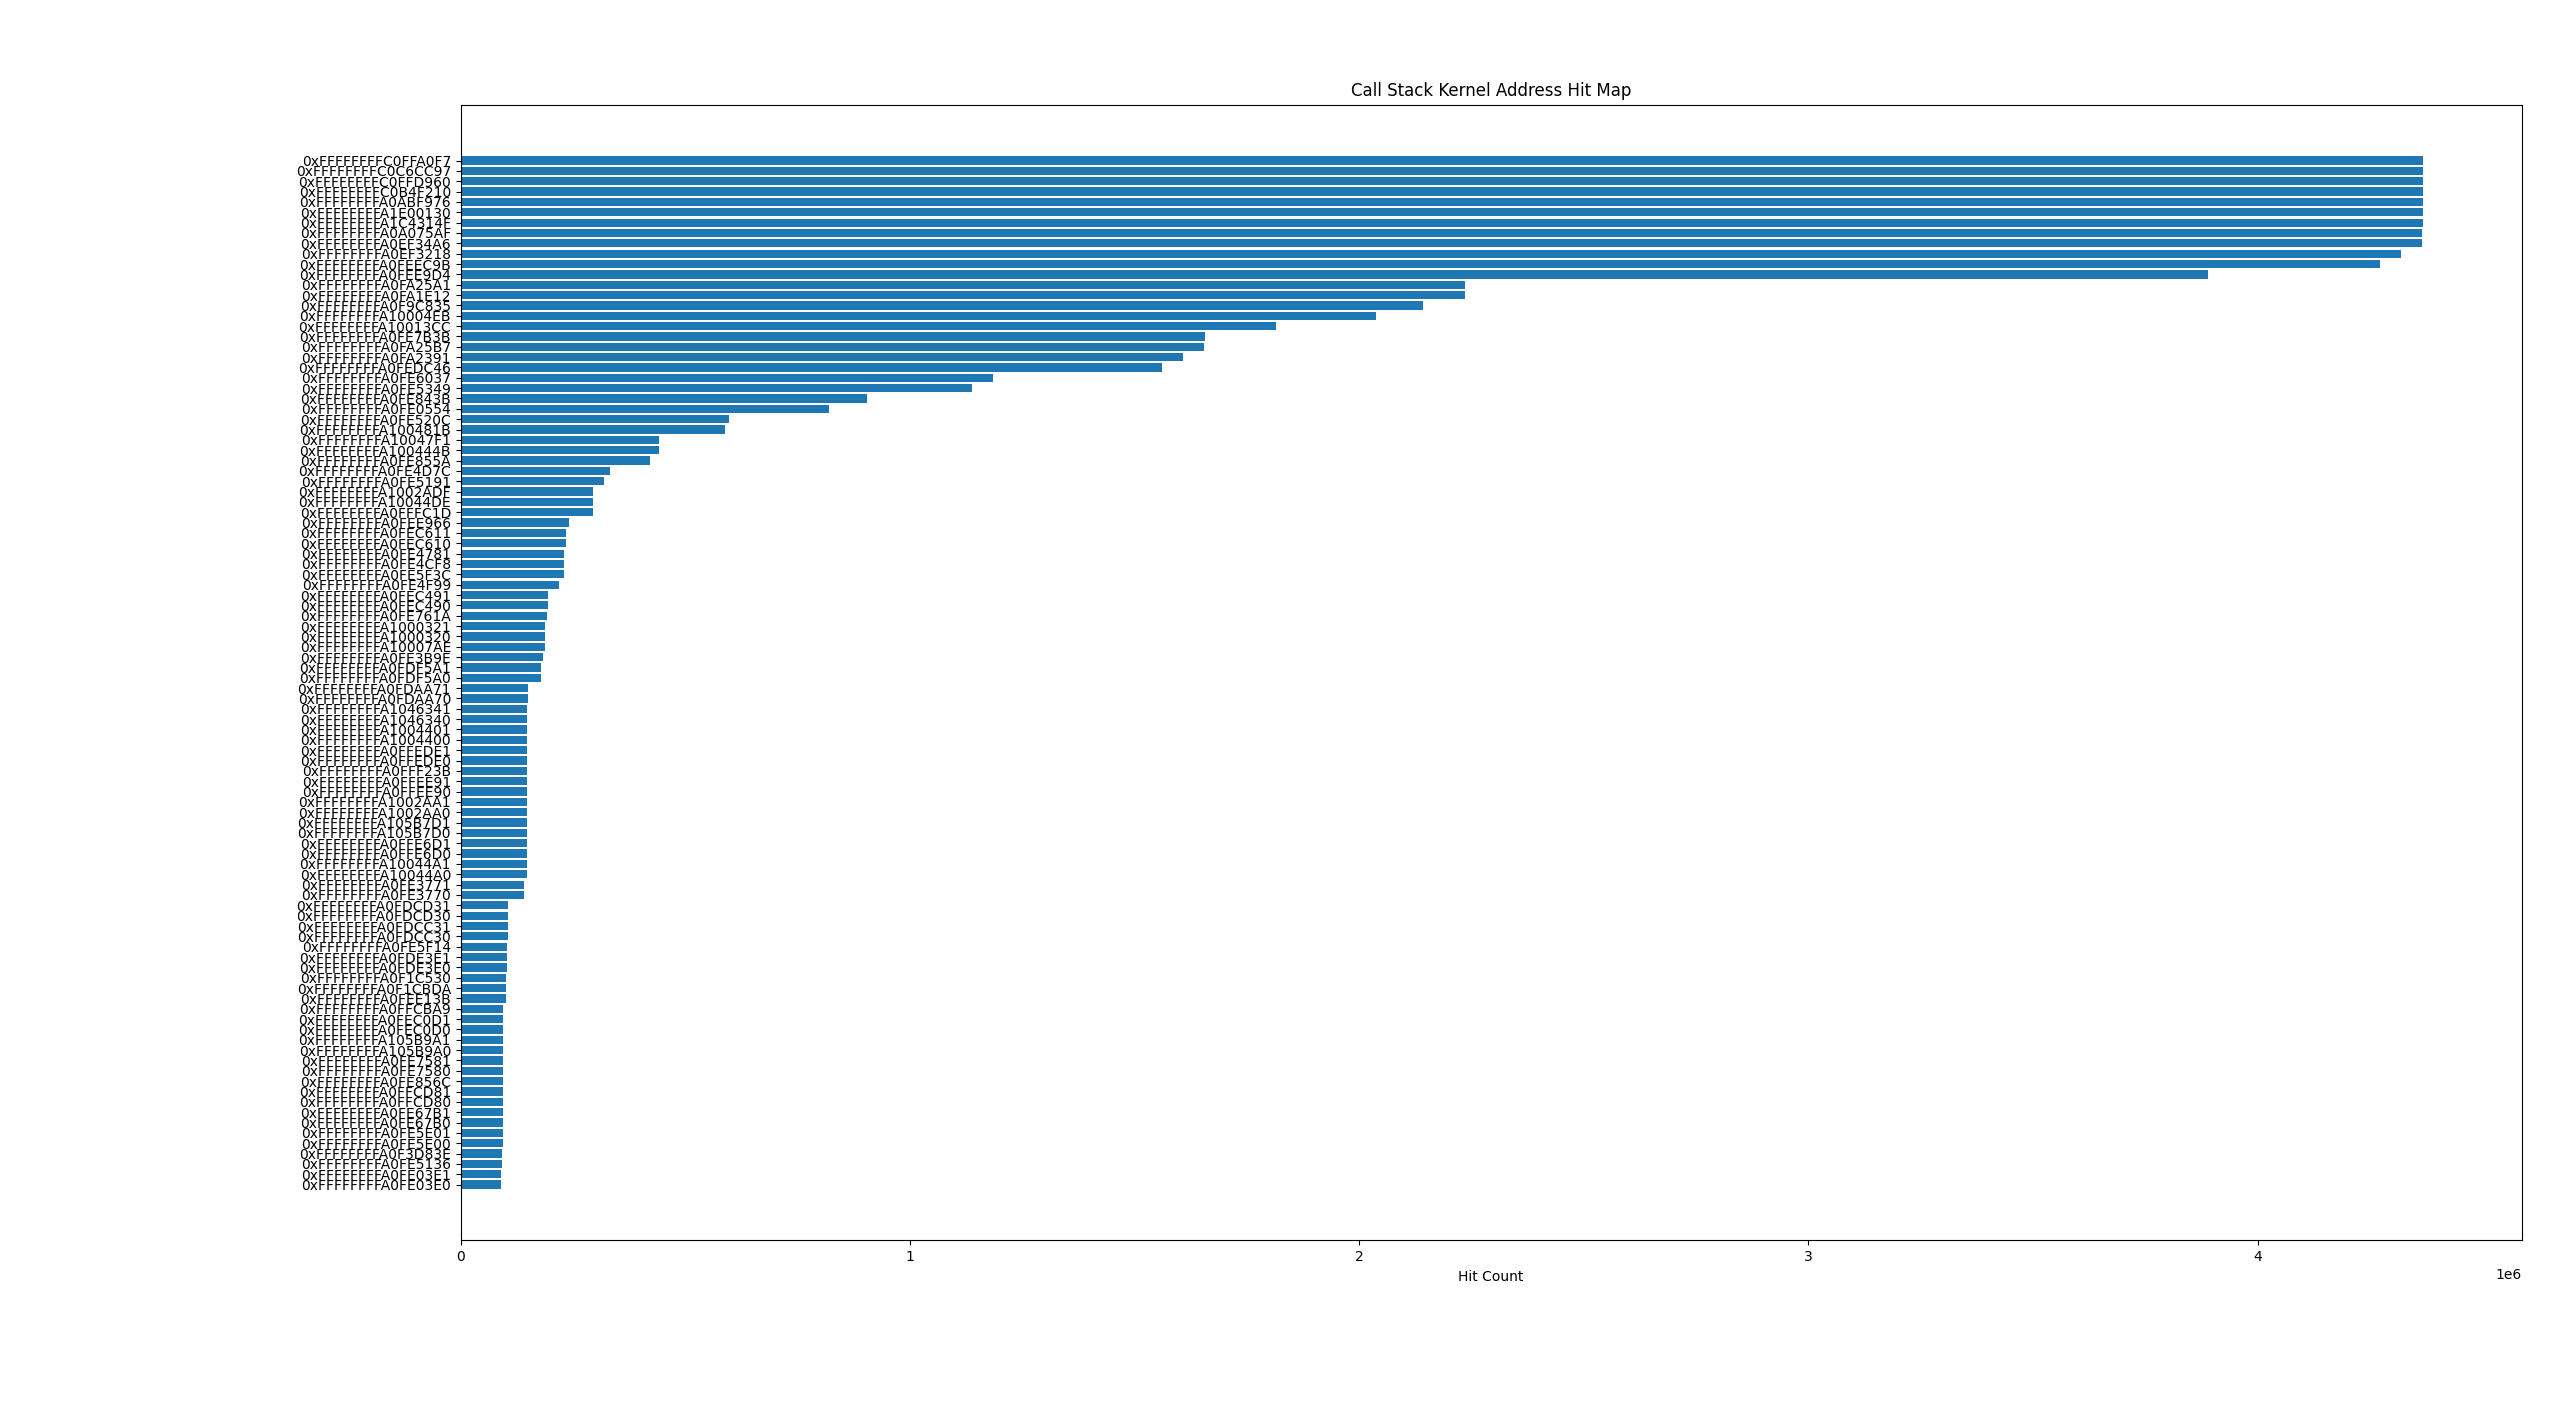
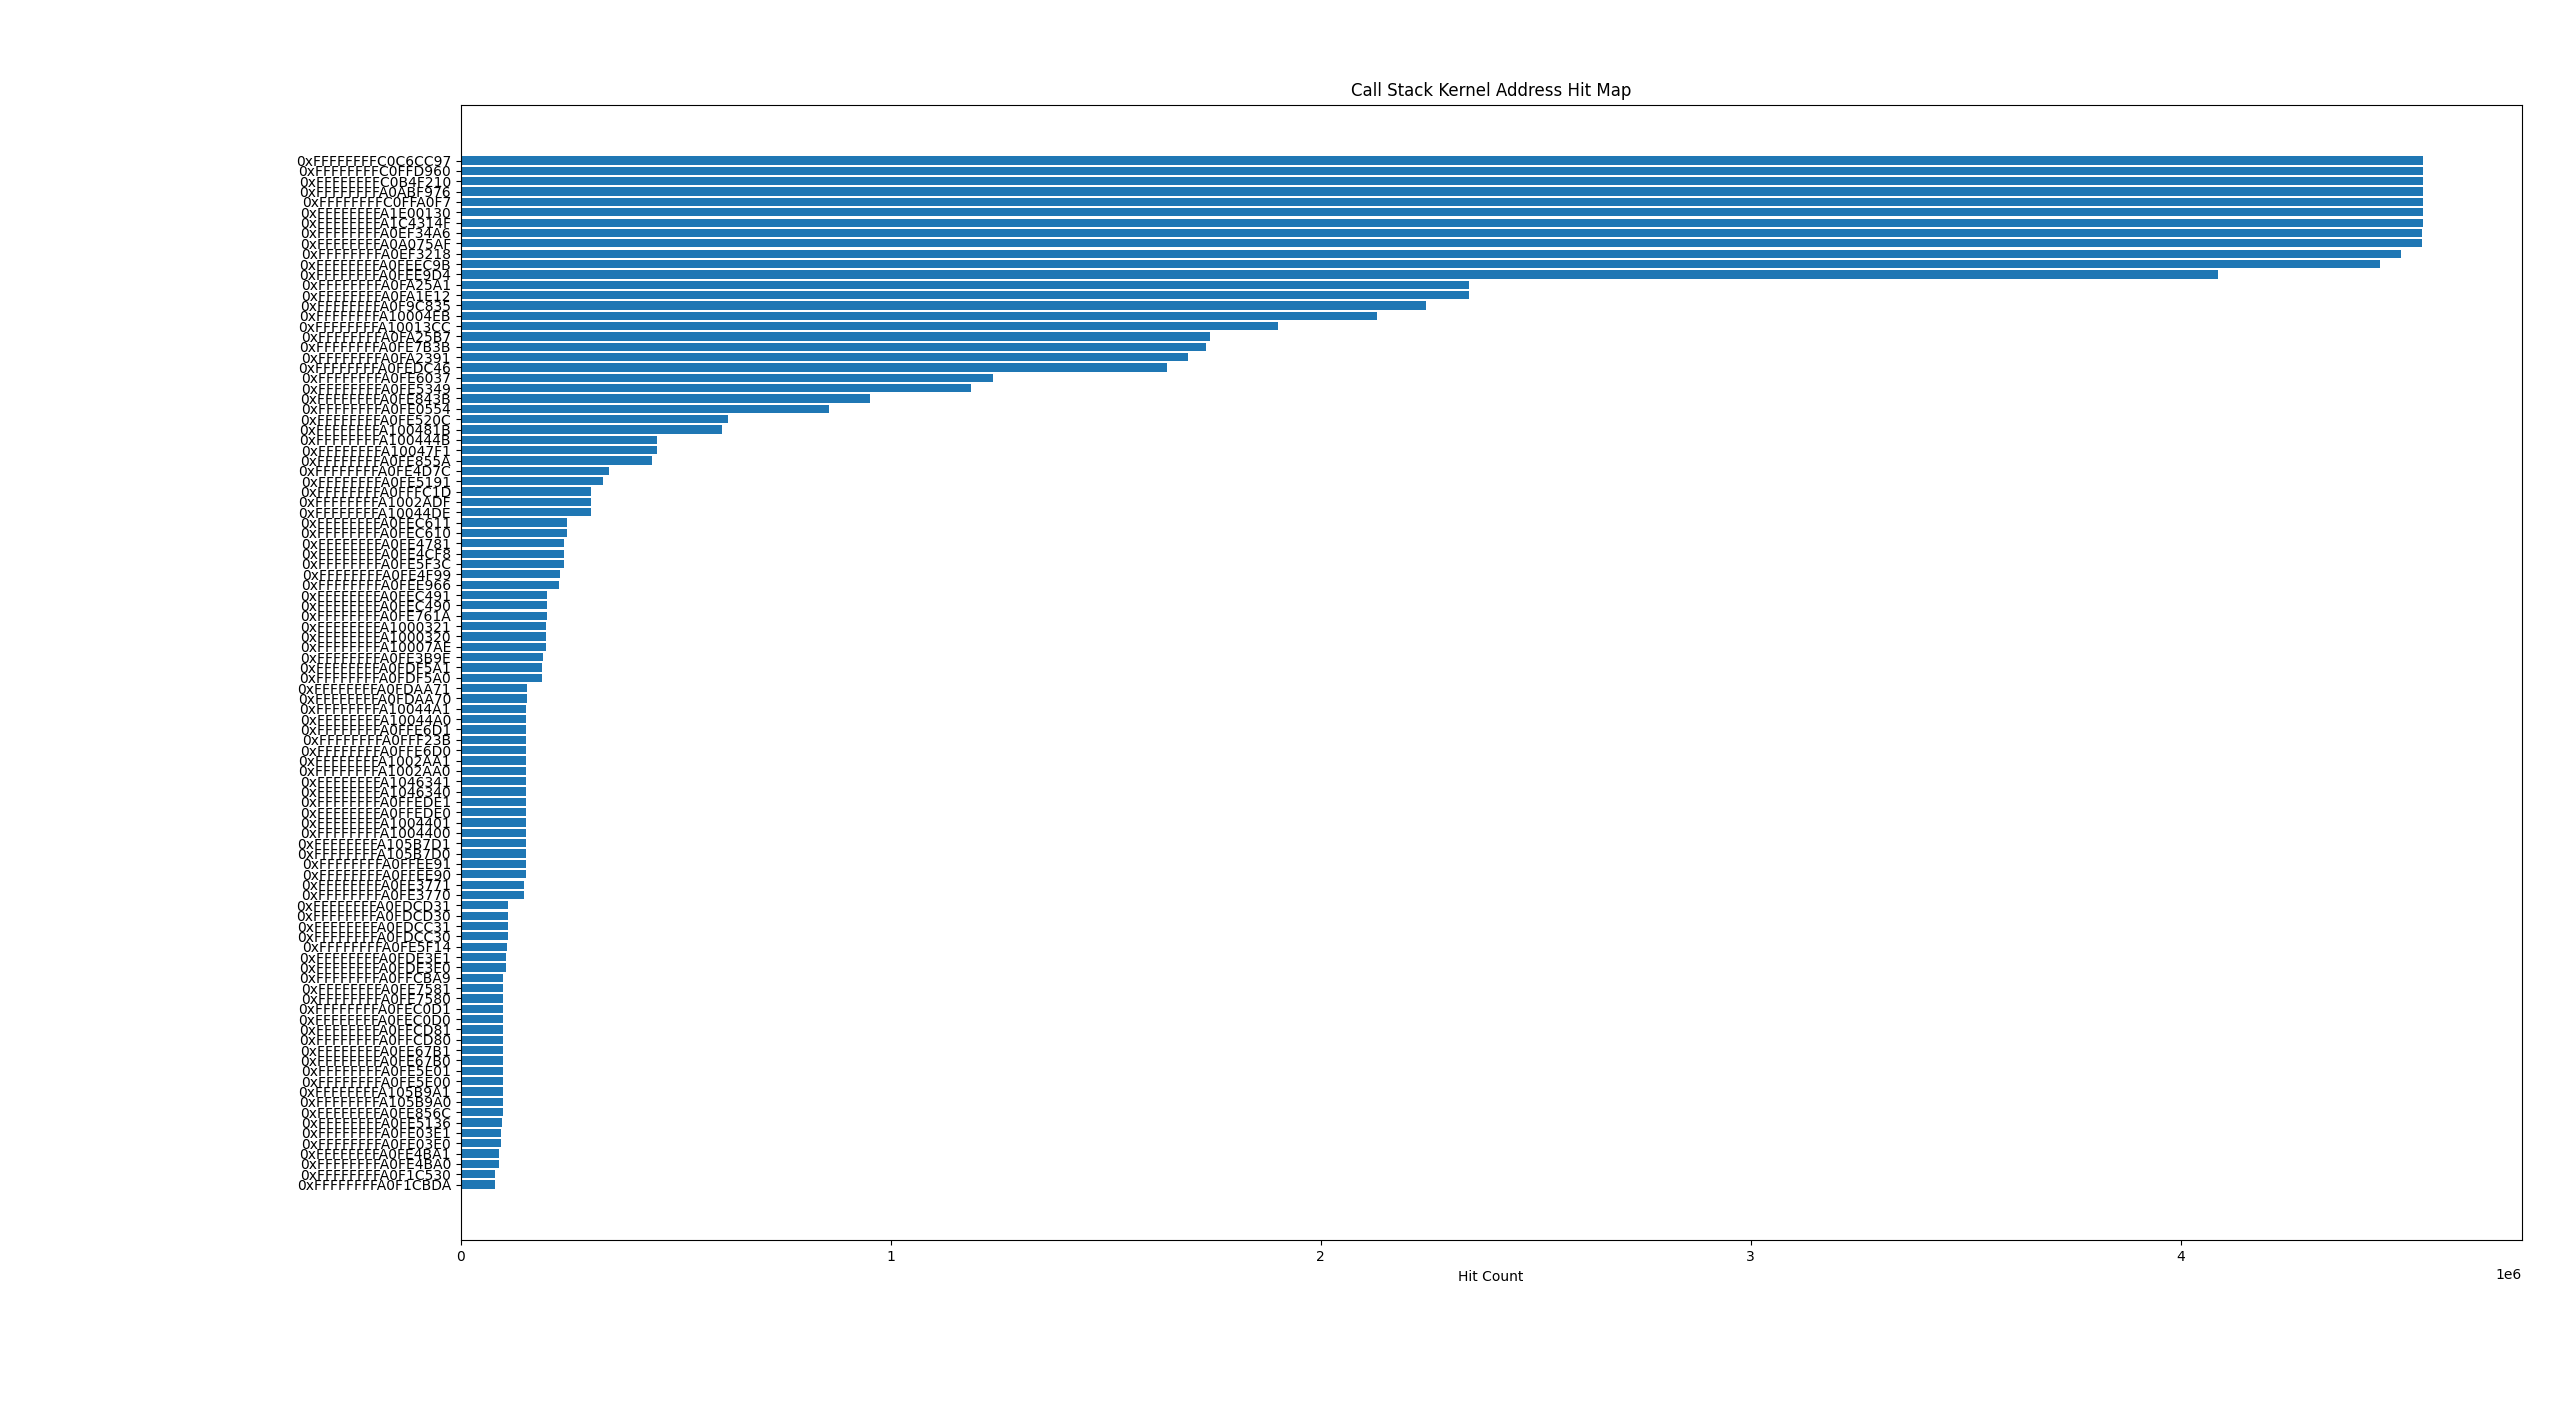
update: tracing script

diff --git a/ext4/vis.py b/ext4/vis.py
@@ -12,11 +12,7 @@ event_hits = Counter()
 address_hits = Counter()
 
 with open("filter.txt") as f:
-    index = 0
     for line in f:
-        index += 1
-        if index == 100:
-            break
         # find ext4 function event
         m = re.match(r".*?\s+(ext4_\w+):", line)
         if m:

diff --git a/ext4/README.md b/ext4/README.md
@@ -73,5 +73,7 @@ sudo -g fio_grp ./fio.sh
     - By using the group id, we can label and filter logs
 3. Creating different workloads to trigger Ext4 features (e.g., journaling, failure recovery, etc.).
 4. Mapping kernel stack addresses to functions or symbols.
-5. Large volume of tracing results to parse (11GB right now, when filtering it gets 4GB).
-6. Tracer discarded 700,000 events.
+5. Large volume of tracing results to parse (1 GB for only ext4 hit and 8 GB for callstack).
+6. Tracer discarded 220,000 events when tracing with callstack option.
+    - Even by enabling kstack tracing for only ext4 hit functions
+7. Tracing results different even using the same test cases.
